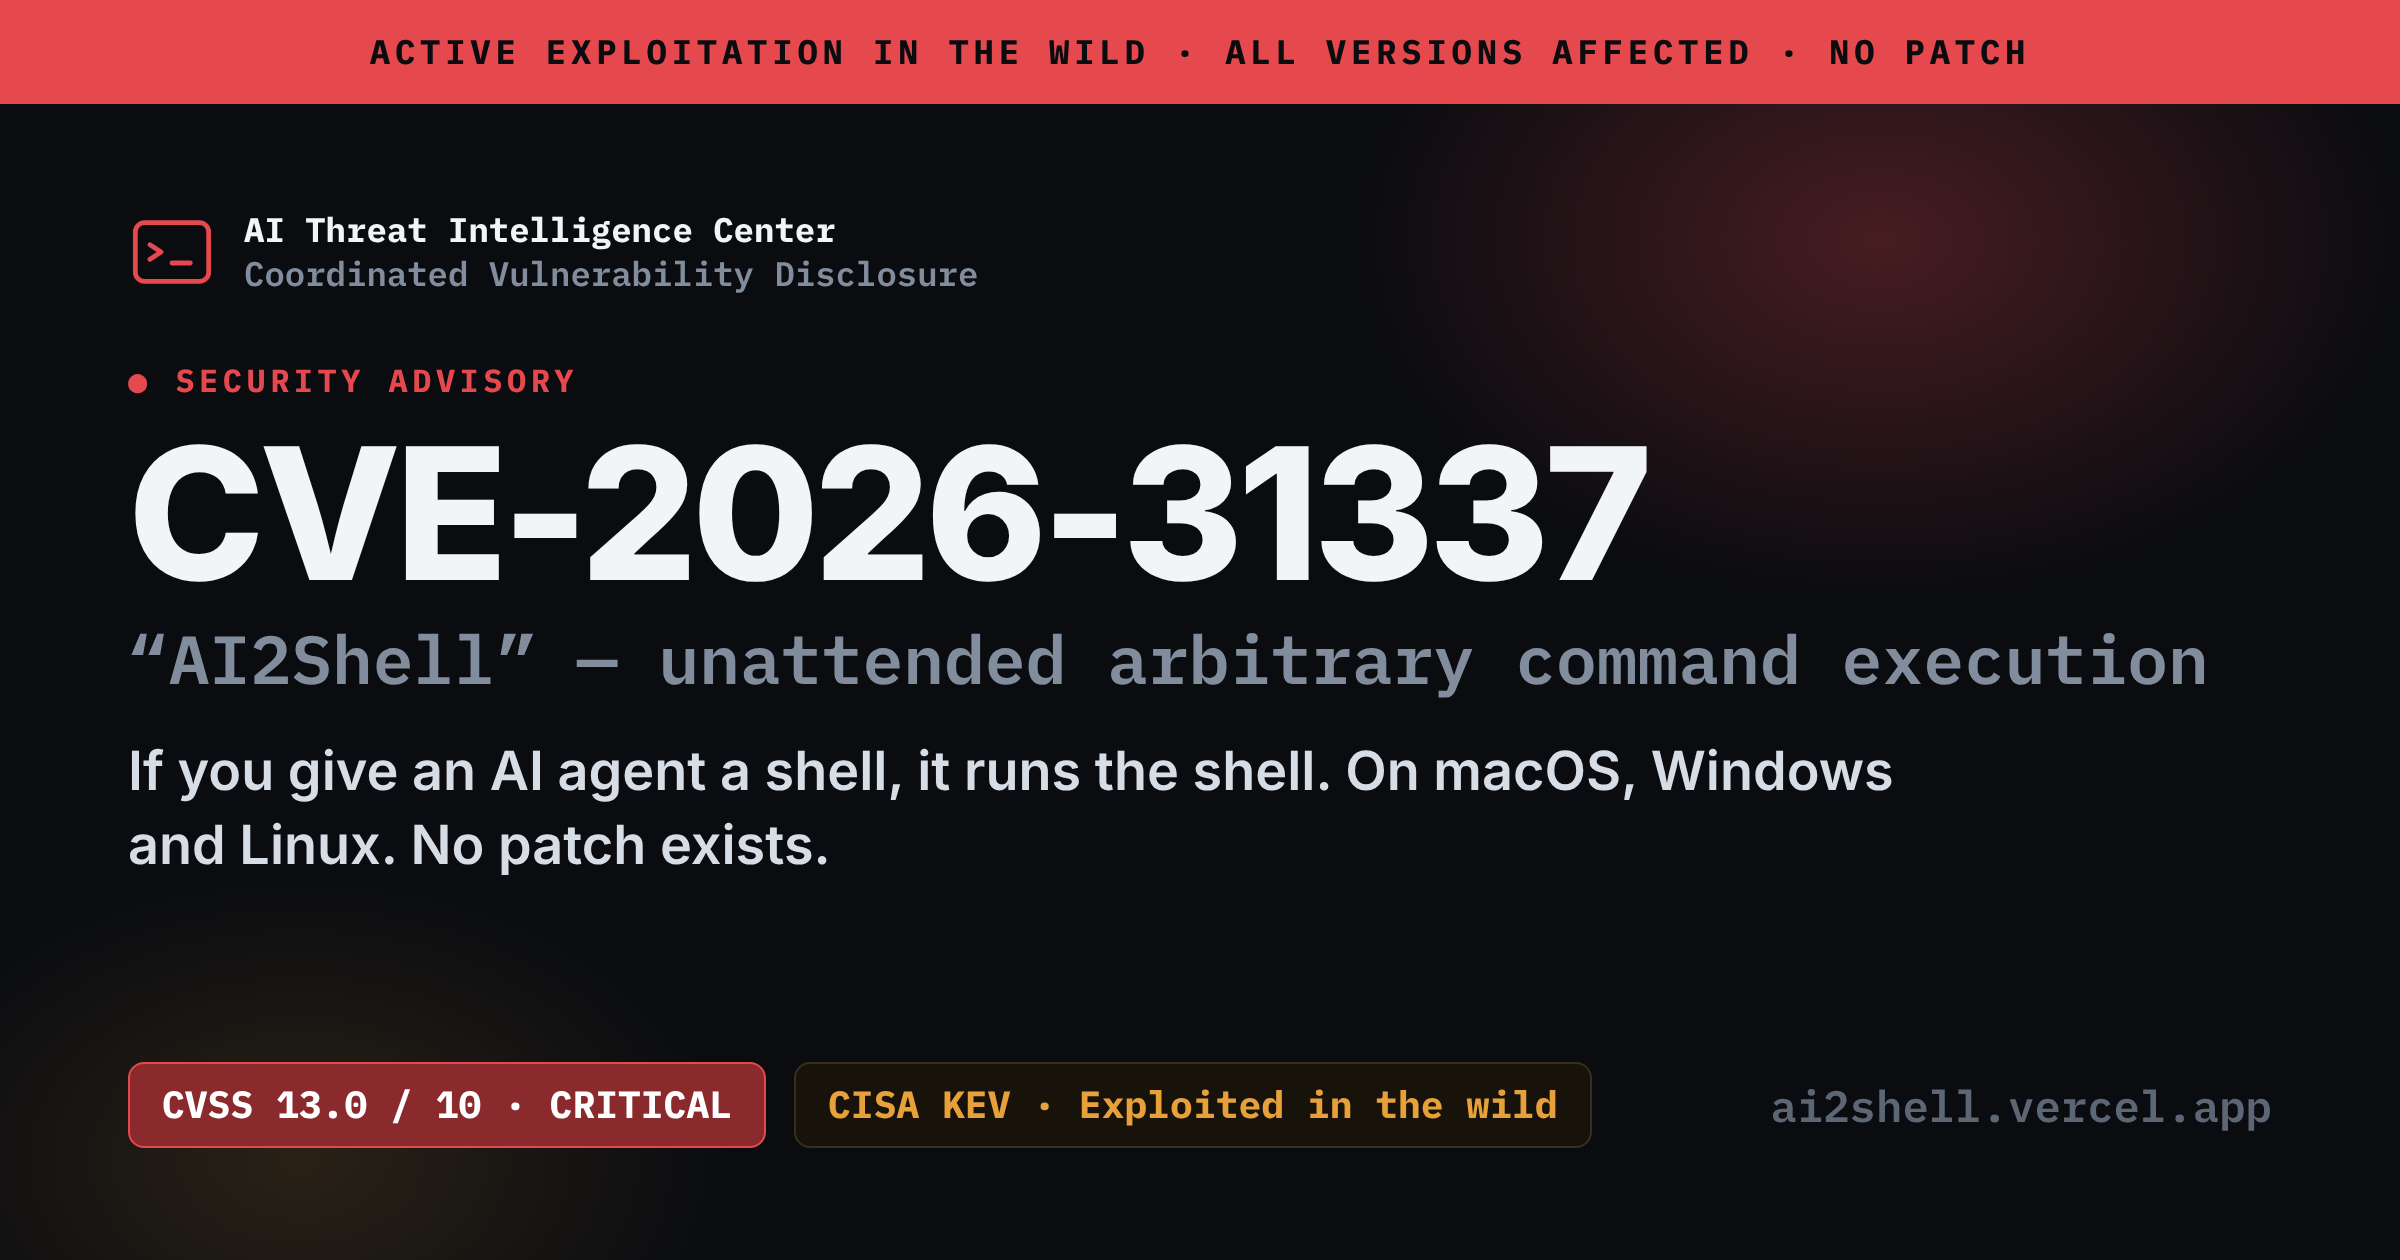
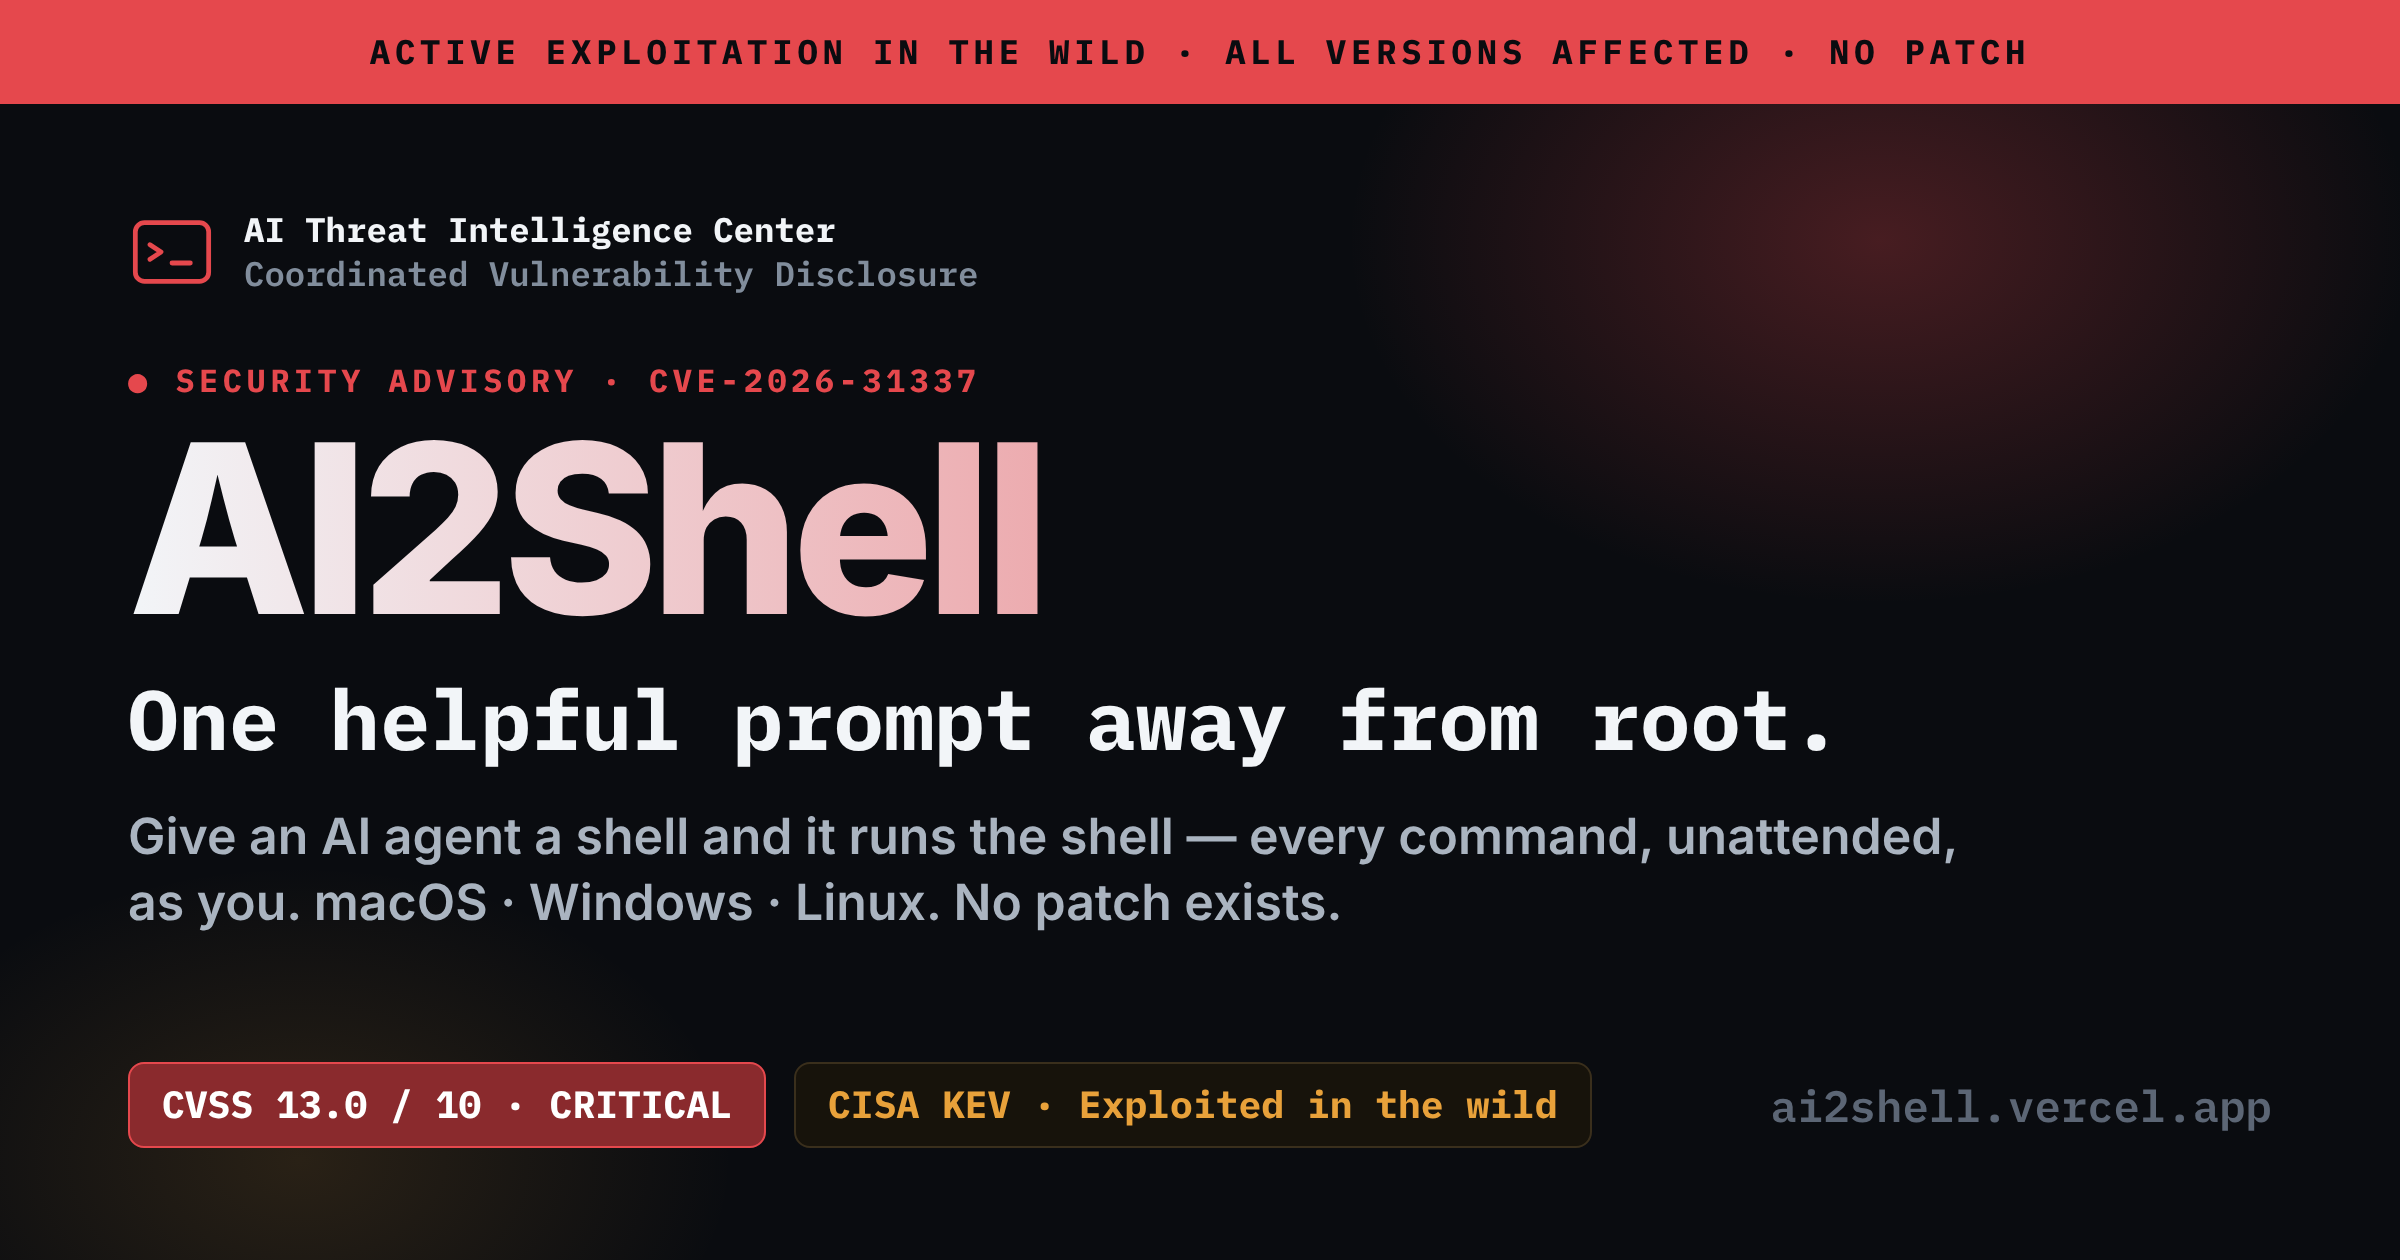
Lead share preview with AI2Shell and a flaw-describing headline
Make AI2Shell the headline of the shared link instead of the CVE number, and
add a tagline that describes the flaw. og:title/twitter:title/<title> now read
"AI2Shell — One helpful prompt away from root"; the CVE id is demoted to a
parenthetical / eyebrow. Redraw og.png so AI2Shell is the hero, "CVE-2026-31337"
moves to the small advisory eyebrow, and the tagline sits under the wordmark.

Claude-Session: https://claude.ai/code/session_011HLUknzCELWS4qeA5BoGiW

Changed region(s): [[0.0312, 0.3405, 0.9375, 0.7429], [0.2812, 0.2786, 0.4062, 0.3095]]

diff --git a/index.html b/index.html
@@ -3,12 +3,12 @@
 <head>
   <meta charset="utf-8">
   <meta name="viewport" content="width=device-width, initial-scale=1">
-  <title>CVE-2026-31337 (AI2Shell) — Security Advisory</title>
-  <meta name="description" content="CVE-2026-31337 (AI2Shell): arbitrary command execution in autonomous LLM agents granted interactive shell access. CVSS 4.0 Base 13.0 / Critical (exceeds scale). Confirmed exploitation in the wild.">
+  <title>AI2Shell — One helpful prompt away from root (CVE-2026-31337)</title>
+  <meta name="description" content="AI2Shell: give an AI agent a shell and it runs the shell — every command, unattended, as you. Arbitrary command execution on macOS, Windows and Linux. CVSS 13.0 / 10. No patch exists.">
   <link rel="canonical" href="https://ai2shell.vercel.app/">
   <meta property="og:site_name" content="AI Threat Intelligence Center">
-  <meta property="og:title" content="CVE-2026-31337 — AI2Shell">
-  <meta property="og:description" content="If you give an AI agent a shell, it runs the shell. Unattended arbitrary command execution on macOS, Windows and Linux. CVSS 13.0 / 10. No patch exists.">
+  <meta property="og:title" content="AI2Shell — One helpful prompt away from root">
+  <meta property="og:description" content="Give an AI agent a shell and it runs the shell — every command, unattended, as you. Arbitrary command execution on macOS, Windows and Linux. CVSS 13.0 / 10. No patch exists. (CVE-2026-31337)">
   <meta property="og:type" content="article">
   <meta property="og:url" content="https://ai2shell.vercel.app/">
   <meta property="og:image" content="https://ai2shell.vercel.app/og.png">
@@ -16,12 +16,12 @@
   <meta property="og:image:type" content="image/png">
   <meta property="og:image:width" content="1200">
   <meta property="og:image:height" content="630">
-  <meta property="og:image:alt" content="CVE-2026-31337 (AI2Shell) — Security Advisory. CVSS 13.0 / 10, actively exploited, no patch.">
+  <meta property="og:image:alt" content="AI2Shell — one helpful prompt away from root. CVSS 13.0 / 10, actively exploited, no patch.">
   <meta name="twitter:card" content="summary_large_image">
-  <meta name="twitter:title" content="CVE-2026-31337 — AI2Shell">
-  <meta name="twitter:description" content="If you give an AI agent a shell, it runs the shell. Unattended arbitrary command execution on macOS, Windows and Linux. CVSS 13.0 / 10. No patch exists.">
+  <meta name="twitter:title" content="AI2Shell — One helpful prompt away from root">
+  <meta name="twitter:description" content="Give an AI agent a shell and it runs the shell — every command, unattended, as you. macOS, Windows, Linux. CVSS 13.0 / 10. No patch exists. (CVE-2026-31337)">
   <meta name="twitter:image" content="https://ai2shell.vercel.app/og.png">
-  <meta name="twitter:image:alt" content="CVE-2026-31337 (AI2Shell) — Security Advisory">
+  <meta name="twitter:image:alt" content="AI2Shell — One helpful prompt away from root">
   <meta name="theme-color" content="#0a0c10">
   <link rel="icon" href="favicon.svg" type="image/svg+xml">
   <link rel="apple-touch-icon" href="favicon.svg">
